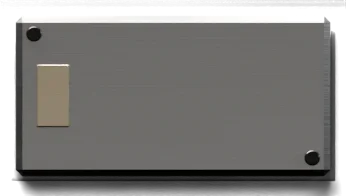
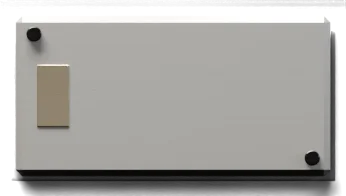
Fix the Round 2 review findings: plate contrast, sprite swap, touch states
An independent review of 2065f66 found these in the Round 2 integration.

- Stage plates: re-rendered in Blender with their own lighter, partly
  diffuse brushed stainless. The label ink goes from 3.1-3.8:1 to
  6.6-7.2:1 on every plate. The chain base and the five pressed-plate
  sprites are new; the carriage is unchanged.
- The selected stage label stays light below 1181px, where it sits on
  the dark rail rather than a plate.
- Sprites: all lazy. A stage's sprite is fetched when the stage is
  chosen and swapped in once decoded, so nothing blinks on a first
  visit. The off-screen breakpoint is never fetched.
- Keys: a touch-screen sticky hover no longer lifts or whitens a key. A
  clicked key stays pressed while it travels. The current key keeps its
  ears on the pins. The one-row gap is 29px, so the pin pitch is exact.
  Phone numbers clear the bevel, and the label is 13px at 340px and
  below. Tiers tile at fractional widths, and a focused key stays
  ButtonText in forced colours.
- Footer headings raised to #d9c6a0. The 701-780px panels get room.
- The reduced-motion guard on the inspection light is restored. The dead
  --active write is removed and the caption apostrophe is fixed.
- Provenance: per-asset samples and qualities, pixel-identical
  re-renders, the separate winget MSI install recorded, the seal's own
  studio, the retained V5 renders.

diff --git a/pf-foundry-system.css b/pf-foundry-system.css
@@ -908,7 +908,7 @@ body:is(.pf-ledger-page,.pf-room-about,.pf-room-support,.pf-room-standard,.pf-ro
    foundry-connections.css. Each coupler is rendered for its own orientation and never rotated in CSS, so the
    studio light stays upper left. ── */
 :root .pf-route-chain li{margin:0}
-:root .pf-route-chain ol{gap:30px}
+:root .pf-route-chain ol{gap:29px}
 :root .pf-route-chain a{height:64px;min-height:0;padding:0 30px;gap:9px;border-style:solid;border-width:0;border-radius:0;
  border-image:url(/assets/round2/key-rest.webp) 0 64 fill/0 32px/0 stretch;background:none;box-shadow:none;
  color:#dfe5e7;font-size:14px;font-weight:600;letter-spacing:.06em;white-space:nowrap;text-shadow:0 -1px 0 rgba(0,0,0,.9),0 1px 0 rgba(255,255,255,.08);transition:transform .08s ease-out,filter .08s}
@@ -916,21 +916,24 @@ body:is(.pf-ledger-page,.pf-room-about,.pf-room-support,.pf-room-standard,.pf-ro
 /* Hover: a soft reflected band crosses the recessed face. No glow, no lift. */
 :root .pf-route-chain a::before{content:"";position:absolute;left:24px;right:24px;top:15px;bottom:15px;width:auto;height:auto;transform:none;border:0;border-radius:0;box-shadow:none;
  background:linear-gradient(100deg,transparent 30%,rgba(255,255,255,.1) 46%,rgba(255,255,255,.16) 50%,rgba(255,255,255,.1) 54%,transparent 70%) -160px 0/220% 100% no-repeat;opacity:0;transition:background-position .5s ease-out,opacity .2s;pointer-events:none}
-@media (hover:hover){:root .pf-route-chain a:hover::before{opacity:1;background-position:100% 0}:root .pf-route-chain a:hover{transform:none;color:#f3f6f7}}
+/* A sticky :hover on a touch screen must not lift or whiten a key (the shipped hover rule does both). */
+:root .pf-route-chain a:hover{transform:none;color:#dfe5e7}
+@media (hover:hover){:root .pf-route-chain a:hover::before{opacity:1;background-position:100% 0}:root .pf-route-chain a:hover{color:#f3f6f7}}
 :root .pf-route-chain a:focus-visible{transform:none;outline:3px solid #ffd58a;outline-offset:3px;color:#f3f6f7}
-:root .pf-route-chain a:active{transform:translateY(2px);filter:brightness(.9) contrast(1.05)}
+:root .pf-route-chain a:active,:root .pf-route-chain a[data-engaged=true]{transform:translateY(2px);filter:brightness(.9) contrast(1.05)}
 :root .pf-route-chain .pf-chain-station{color:#b9a27a;font-size:11px;font-weight:500}
 :root .pf-route-chain a[aria-current=page]{border-image-source:url(/assets/round2/key-current.webp);background:none;box-shadow:none;color:#11191e;
- text-shadow:0 1px 0 rgba(255,255,255,.38);transform:translateY(1px)}
+ text-shadow:0 1px 0 rgba(255,255,255,.38)}
 :root .pf-route-chain a[aria-current=page] .pf-chain-station{color:#5a4421}
 :root .pf-route-chain a[aria-current=page]:hover{color:#0b1013}
-/* Horizontal coupler: a forged link pinned through neighbouring ears, pin centres 46 px apart (x 12 and 58 in the art).
+/* Horizontal coupler: a forged link pinned through neighbouring ears, pin centres 46 px apart (x 12 and 58 in the art);
+   each ear bore sits 8.5 px in from its key's end, so the 29 px gap above lands both pins in the bores.
    The li:nth-child(n) selector outranks the shipped per-key coupler transforms in foundry-connections.css. */
 :root .pf-route-chain li:nth-child(n) .pf-route-coupler{left:calc(100% - 20.5px);right:auto;top:16px;width:70px;height:32px;transform:none;filter:none;background:url(/assets/round2/coupler.webp) 0 0/100% 100% no-repeat}
 :root .pf-route-coupler i{display:none}
 /* One row down to 1240 px: the type tightens and the gap closes to 24 px, with the coupler scaled to match
    (pin pitch 24 + 2 x 8.5 = 41 px, 0.891 of the art). */
-@media (min-width:1240px) and (max-width:1359px){
+@media (min-width:1240px) and (max-width:1359.98px){
  :root .pf-route-chain ol{gap:24px}
  :root .pf-route-chain a{padding:0 22px;font-size:13px;letter-spacing:.02em}
  :root .pf-route-chain li:nth-child(n) .pf-route-coupler{left:calc(100% - 19.2px);top:17.74px;width:62.4px;height:28.5px}
@@ -939,14 +942,14 @@ body:is(.pf-ledger-page,.pf-room-about,.pf-room-support,.pf-room-standard,.pf-ro
    the key's end and 28 px down. With a 20 px column gap the horizontal coupler scales to 53 x 24.3 and its pins land in
    the bores. With a 24 px row gap the bores of stacked keys are 80 px apart, the pin pitch of the rendered drop link
    (coupler-v.webp: 32 x 100, pins at y 10 and 90). */
-@media (max-width:1239px){
+@media (max-width:1239.98px){
  :root .pf-route-chain ol{gap:24px 20px}
  :root .pf-route-chain a{height:56px;border-image-width:0 28px;padding:0 22px}
  :root .pf-route-chain li:nth-child(n){grid-column:auto;grid-row:auto}
  :root .pf-route-chain li:nth-child(n) .pf-route-coupler{left:calc(100% - 16.5px);right:auto;top:15.9px;width:53px;height:24.3px}
 }
 /* Tablets: three columns, 1 2 3 / 6 5 4. The chain drops at the right after 03 and runs back to the left. */
-@media (min-width:701px) and (max-width:1239px){
+@media (min-width:701px) and (max-width:1239.98px){
  :root .pf-route-chain ol{grid-template-columns:repeat(3,minmax(0,1fr))}
  :root .pf-route-chain li:nth-child(4){grid-column:3;grid-row:2}:root .pf-route-chain li:nth-child(5){grid-column:2;grid-row:2}:root .pf-route-chain li:nth-child(6){grid-column:1;grid-row:2}
  :root .pf-route-chain li:nth-child(3) .pf-route-coupler{left:calc(100% - 23.44px);top:18px;width:32px;height:100px;background-image:url(/assets/round2/coupler-v.webp)}
@@ -954,23 +957,24 @@ body:is(.pf-ledger-page,.pf-room-about,.pf-room-support,.pf-room-standard,.pf-ro
 }
 /* Phones: two columns, 1 2 / 4 3 / 5 6. The chain drops at the right after 02 and at the left after 04. The stage number
    sits above the label so the long labels stay on one line. */
-@media (max-width:700px){
+@media (max-width:700.98px){
  :root .pf-route-chain ol{grid-template-columns:repeat(2,minmax(0,1fr))}
  :root .pf-route-chain li:nth-child(3){grid-column:2;grid-row:2}:root .pf-route-chain li:nth-child(4){grid-column:1;grid-row:2}
  :root .pf-route-chain li:nth-child(5){grid-column:1;grid-row:3}:root .pf-route-chain li:nth-child(6){grid-column:2;grid-row:3}
- :root .pf-route-chain a{flex-direction:column;gap:3px;line-height:16px}
+ :root .pf-route-chain a{flex-direction:column;gap:3px;line-height:16px;padding-top:4px}
  :root .pf-route-chain .pf-chain-station{line-height:13px;letter-spacing:.1em}
  :root .pf-route-chain li:nth-child(2) .pf-route-coupler,:root .pf-route-chain li:nth-child(4) .pf-route-coupler{top:18px;width:32px;height:100px;background-image:url(/assets/round2/coupler-v.webp)}
  :root .pf-route-chain li:nth-child(2) .pf-route-coupler{left:calc(100% - 23.44px)}
  :root .pf-route-chain li:nth-child(4) .pf-route-coupler{left:-8.56px}
  :root .pf-route-chain li:nth-child(3) .pf-route-coupler{left:auto;right:calc(100% - 16.5px)}
 }
-@media (max-width:360px){:root .pf-route-chain a{padding:0 18px;letter-spacing:0}}
+@media (max-width:360px){:root .pf-route-chain a{padding:4px 18px 0;letter-spacing:0}}
+@media (max-width:340px){:root .pf-route-chain a{font-size:13px}}
 @media (prefers-reduced-motion:reduce){:root .pf-route-chain a,:root .pf-route-chain a::before{transition:none}}
 /* Forced colours: plain system buttons in the palette (label and border in ButtonText), the current key with a 3 px
    Highlight border, and no rendered art. */
 @media (forced-colors:active){
- :root .pf-route-chain a,:root .pf-route-chain a:hover,:root .pf-route-chain a[aria-current=page]{border-image:none;border:2px solid ButtonText;background:ButtonFace;color:ButtonText;text-shadow:none;filter:none}
+ :root .pf-route-chain a,:root .pf-route-chain a:hover,:root .pf-route-chain a:focus-visible,:root .pf-route-chain a[aria-current=page]{border-image:none;border:2px solid ButtonText;background:ButtonFace;color:ButtonText;text-shadow:none;filter:none}
  :root .pf-route-chain a[aria-current=page]{border:3px solid Highlight}
  :root .pf-route-chain .pf-chain-station,:root .pf-route-chain a[aria-current=page] .pf-chain-station{color:ButtonText}
  :root .pf-route-chain a::before{display:none}
@@ -998,7 +1002,7 @@ body:is(.pf-ledger-page,.pf-room-about,.pf-room-support,.pf-room-standard,.pf-ro
 :root .site-footer::after{content:"";position:absolute;left:0;right:0;bottom:0;height:10px;background:linear-gradient(180deg,transparent,rgba(0,0,0,.6));pointer-events:none}
 :root .site-footer .footer-grid{align-items:start}
 :root .site-footer .footer-grid>nav{position:relative;padding:26px 30px 22px;border-style:solid;border-width:0;border-image:url(/assets/round2/footer-panel.webp) 56 fill/28px/0 stretch}
-:root .site-footer .footer-grid h2{display:flex;align-items:center;gap:10px;color:#c2ab80;letter-spacing:.2em;margin:0 0 10px;text-shadow:0 -1px 0 rgba(0,0,0,.9)}
+:root .site-footer .footer-grid h2{display:flex;align-items:center;gap:10px;color:#d9c6a0;letter-spacing:.2em;margin:0 0 10px;text-shadow:0 -1px 0 rgba(0,0,0,.9)}
 :root .site-footer .footer-grid h2::after{content:"";flex:1;height:1px;background:linear-gradient(90deg,rgba(0,0,0,.9),rgba(0,0,0,.2));box-shadow:0 1px 0 rgba(255,255,255,.07)}
 /* Engraved links: a cut with a shadowed top wall and a light-catching lower lip, filled with a satin inlay. */
 :root .site-footer .footer-grid a{color:#bdc7cc;font-size:14px;font-weight:500;letter-spacing:.02em;text-decoration:none;text-shadow:0 -1px 0 rgba(0,0,0,.95),0 1px 0 rgba(255,255,255,.13);transition:color .15s}
@@ -1007,6 +1011,7 @@ body:is(.pf-ledger-page,.pf-room-about,.pf-room-support,.pf-room-standard,.pf-ro
 :root .site-footer .footer-brand-lockup img{padding:5px;background:linear-gradient(160deg,#41484d,#202529);box-shadow:inset 0 1px 0 rgba(255,255,255,.18),inset 0 -1px 0 rgba(0,0,0,.6),0 1px 2px rgba(0,0,0,.7)}
 :root .site-footer .footer-bottom{border-top:1px solid #050607;box-shadow:inset 0 1px 0 rgba(255,255,255,.05)}
 @media (max-width:1100px){:root .site-footer .footer-grid>nav{padding:22px 22px 16px}}
+@media (min-width:701px) and (max-width:780px){:root .site-footer .footer-grid>nav{padding:20px 14px 14px}}
 @media (prefers-reduced-motion:reduce){:root .site-footer .footer-grid a{transition:none}}
 /* Forced colours: the material base rule above outranks a plain reset, so this one is !important. */
 @media (forced-colors:active){

diff --git a/index.html b/index.html
@@ -52,9 +52,9 @@
   </div>
   <div class="pfa-machine">
    <picture class="pfa-assembly" aria-hidden="true"><source media="(min-width: 1000px)" srcset="/assets/round2/chain-desktop-1400.webp 1400w, /assets/round2/chain-desktop-2800.webp 2800w" sizes="(min-width: 1181px) 88vw, 93vw" width="1400" height="431"/><img src="/assets/round2/chain-mobile-320.webp" alt="" width="160" height="635" loading="eager"/></picture>
-   <span class="r2-plates" aria-hidden="true"><img src="/assets/round2/plate-d-p0.webp" alt="" decoding="async"/><img src="/assets/round2/plate-d-p1.webp" alt="" hidden loading="lazy" decoding="async"/><img src="/assets/round2/plate-d-p2.webp" alt="" hidden loading="lazy" decoding="async"/><img src="/assets/round2/plate-d-p3.webp" alt="" hidden loading="lazy" decoding="async"/><img src="/assets/round2/plate-d-p4.webp" alt="" hidden loading="lazy" decoding="async"/></span>
-   <span class="r2-car" aria-hidden="true"><img src="/assets/round2/carriage-d-s0.webp" alt="" decoding="async"/><img src="/assets/round2/carriage-d-s1.webp" alt="" hidden loading="lazy" decoding="async"/><img src="/assets/round2/carriage-d-s2.webp" alt="" hidden loading="lazy" decoding="async"/><img src="/assets/round2/carriage-d-s3.webp" alt="" hidden loading="lazy" decoding="async"/><img src="/assets/round2/carriage-d-s4.webp" alt="" hidden loading="lazy" decoding="async"/></span>
-   <span class="r2-car-m" aria-hidden="true"><img src="/assets/round2/carriage-m-s0.webp" alt="" decoding="async"/><img src="/assets/round2/carriage-m-s1.webp" alt="" hidden loading="lazy" decoding="async"/><img src="/assets/round2/carriage-m-s2.webp" alt="" hidden loading="lazy" decoding="async"/><img src="/assets/round2/carriage-m-s3.webp" alt="" hidden loading="lazy" decoding="async"/><img src="/assets/round2/carriage-m-s4.webp" alt="" hidden loading="lazy" decoding="async"/></span>
+   <span class="r2-plates" aria-hidden="true"><img src="/assets/round2/plate-d-p0.webp" alt="" loading="lazy" decoding="async"/><img src="/assets/round2/plate-d-p1.webp" alt="" hidden loading="lazy" decoding="async"/><img src="/assets/round2/plate-d-p2.webp" alt="" hidden loading="lazy" decoding="async"/><img src="/assets/round2/plate-d-p3.webp" alt="" hidden loading="lazy" decoding="async"/><img src="/assets/round2/plate-d-p4.webp" alt="" hidden loading="lazy" decoding="async"/></span>
+   <span class="r2-car" aria-hidden="true"><img src="/assets/round2/carriage-d-s0.webp" alt="" loading="lazy" decoding="async"/><img src="/assets/round2/carriage-d-s1.webp" alt="" hidden loading="lazy" decoding="async"/><img src="/assets/round2/carriage-d-s2.webp" alt="" hidden loading="lazy" decoding="async"/><img src="/assets/round2/carriage-d-s3.webp" alt="" hidden loading="lazy" decoding="async"/><img src="/assets/round2/carriage-d-s4.webp" alt="" hidden loading="lazy" decoding="async"/></span>
+   <span class="r2-car-m" aria-hidden="true"><img src="/assets/round2/carriage-m-s0.webp" alt="" loading="lazy" decoding="async"/><img src="/assets/round2/carriage-m-s1.webp" alt="" hidden loading="lazy" decoding="async"/><img src="/assets/round2/carriage-m-s2.webp" alt="" hidden loading="lazy" decoding="async"/><img src="/assets/round2/carriage-m-s3.webp" alt="" hidden loading="lazy" decoding="async"/><img src="/assets/round2/carriage-m-s4.webp" alt="" hidden loading="lazy" decoding="async"/></span>
    <ol class="pfa-rail">
     <li data-stage="0"><span class="pfa-num" aria-hidden="true">01</span><h3><button class="stage-btn" disabled type="button" aria-pressed="true" aria-controls="pfa-record">Source</button></h3><p>Identify what was built.</p></li>
     <li data-stage="1"><span class="pfa-num" aria-hidden="true">02</span><h3><button class="stage-btn" disabled type="button" aria-pressed="false" aria-controls="pfa-record">Build</button></h3><p>Record how it was made.</p></li>
@@ -76,7 +76,7 @@
    <p data-detail-text>A specific source version gives a build an identifiable starting point.</p>
   </div>
   <p class="pfa-run-status" data-run-status>Select a stage to inspect its record. This illustration is not a live verification.</p>
-  <p class="pfa-caption">How it is held: the chain hangs between two clevis anchors pinned to the housing's end blocks, which take the load. The inspection carriage runs in the housing’s guide rail; its finger points at the selected link and never carries the chain. An illustration of the record, not a live verification.</p>
+  <p class="pfa-caption">How it is held: the chain hangs between two clevis anchors pinned to the housing’s end blocks, which take the load. The inspection carriage runs in the housing’s guide rail; its finger points at the selected link and never carries the chain. An illustration of the record, not a live verification.</p>
  </div>
 
  <a class="text-link" href="/proof-standard/">Read the proof standard ↗</a>

diff --git a/pf-home.js b/pf-home.js
@@ -627,23 +627,30 @@ document.addEventListener('error', (event) => { if (decorative(event.target)) ar
 // Failures that happened before this module ran.
 for (const img of document.images) if (decorative(img) && img.complete && img.currentSrc && img.naturalWidth === 0) artFailed(img);
 
-// Rendered carriage reach changes only after travel; the explanation and plate update immediately.
+// Rendered carriage reach changes only after travel; the explanation and plate update immediately. A sprite is
+// fetched when its stage is chosen and swapped in once decoded, so a part never blinks out on a first visit. Only the
+// layout on screen fetches; the other breakpoint's sprites stay lazy until it is shown.
 function initChainSprites(machine) {
-  const cars = [...machine.querySelectorAll('.r2-car, .r2-car-m')];
-  const plates = [...machine.querySelectorAll('.r2-plates img')];
-  let shown = -1, timer = 0;
-  const showCar = (index) => {
-    shown = index;
-    cars.forEach(car => car.querySelectorAll('img').forEach((image, i) => { image.hidden = i !== index; }));
+  const groups = [...machine.querySelectorAll('.r2-plates, .r2-car, .r2-car-m')].map(group => [...group.querySelectorAll('img')]);
+  const plates = groups.filter(images => images[0].parentElement.classList.contains('r2-plates'));
+  const cars = groups.filter(images => !plates.includes(images));
+  let active = -1, carShown = -1, timer = 0;
+  const onScreen = (images) => getComputedStyle(images[0].parentElement).display !== 'none';
+  const show = (images, index) => {
+    const ready = onScreen(images) ? (images[index].loading = 'eager', images[index].decode().catch(() => {})) : Promise.resolve();
+    return ready.then(() => { if (index === active) images.forEach((image, i) => { image.hidden = i !== index; }); });
   };
   const apply = () => {
     const index = Number(machine.dataset.active || 0);
-    plates.forEach((image, i) => { image.hidden = i !== index; });
+    if (index === active) return;
+    active = index;
+    plates.forEach(images => show(images, index));
+    cars.forEach(images => { if (onScreen(images)) images[index].loading = 'eager'; });
     clearTimeout(timer);
-    if (machine.dataset.motion !== 'on' || shown < 0) showCar(index);
-    else timer = setTimeout(() => showCar(index), 640);
+    const settle = () => { carShown = index; cars.forEach(images => show(images, index)); };
+    if (machine.dataset.motion !== 'on' || carShown < 0) settle(); else timer = setTimeout(settle, 640);
   };
-  new MutationObserver(apply).observe(machine, { attributes: true, attributeFilter: ['data-active', 'data-motion'] });
+  new MutationObserver(apply).observe(machine, { attributes: true, attributeFilter: ['data-active'] });
   apply();
 }
 
@@ -695,7 +702,6 @@ function initProofChain() {
     active = Math.max(0, Math.min(stages.length - 1, index));
     if (manual && state === 'running') { clear(); state = 'paused'; }
     machine.dataset.active = String(active);
-    machine.style.setProperty('--active', active);
     stages.forEach((stage, i) => {
       stage.dataset.engaged = String(i === active);
       buttons[i].setAttribute('aria-pressed', String(i === active));

diff --git a/pf-home-ledger.css b/pf-home-ledger.css
@@ -775,8 +775,9 @@ html[data-motion=off] .pf-lm{display:none}
  .pfa[data-active="1"] .r2-car{--travel:14.9286cqw}.pfa[data-active="2"] .r2-car{--travel:29.9286cqw}
  .pfa[data-active="3"] .r2-car{--travel:44.857cqw}.pfa[data-active="4"] .r2-car{--travel:59.786cqw}
  .pfa[data-motion=on] .r2-car{transition:transform .62s cubic-bezier(.5,0,.15,1.04)}
- .pfa-rail li[data-engaged=true] h3{color:#0e1418}
 }
+/* From 1181 px the labels sit on the rendered plates; below that they sit on the dark rail and keep their light ink. */
+@media (min-width:1181px){.pfa-rail li[data-engaged=true] h3{color:#0e1418}}
 @media (max-width:999px){
  .r2-plates,.r2-car{display:none}
  .r2-car-m{display:block;left:calc(92px * var(--s));top:calc(76.3px * var(--s));width:calc(60px * var(--s));height:calc(68px * var(--s));transform:translateY(var(--travel,0px))}
@@ -792,6 +793,7 @@ html[data-motion=off] .pf-lm{display:none}
 }
 /* The inspection light is a desktop effect; on the vertical layout the champagne edge marks the selected plate. */
 @media (max-width:999px){.pfa-rail li::after{display:none}}
+@media (prefers-reduced-motion:reduce){.pfa-rail li::after{transition:none!important}}
 /* Forced colours: no rendered hardware, and the stage list returns to the full width the round 2 mobile offset took. */
 @media (forced-colors:active){
  .pfa-assembly,.r2-car,.r2-car-m,.r2-plates,.pf-emblem.r2-seal::before,.pfa-rail li::after,.pfa-rail li::before,.pfa-rail::before{display:none}

diff --git a/scripts/render-round2/chain_scene.py b/scripts/render-round2/chain_scene.py
@@ -150,6 +150,9 @@ M['bore'] = mat_varied('structural-back-wall', (0.034, 0.033, 0.032), 0.6, 0.58,
 M['rail'] = mat_simple('blackened-rail', (0.03, 0.03, 0.031), 0.9, 0.34, brushed=0.05)
 M['ground'] = mat_simple('ground-face', (0.5, 0.5, 0.5), 1.0, 0.2, brushed=0.12)
 M['stainless'] = mat_simple('brushed-stainless', (0.52, 0.52, 0.51), 1.0, 0.24, aniso=0.6, brushed=0.3)
+# Stage plates carry engraved labels, so their face is a lighter, partly diffuse brushed stainless: under the black
+# studio world a fully metallic face renders too dark for the labels to reach 4.5:1.
+M['plate'] = mat_simple('plate-stainless', (0.52, 0.52, 0.51), 0.78, 0.3, aniso=0.55, brushed=0.3)
 M['pin'] = mat_simple('turned-pin', (0.42, 0.42, 0.41), 1.0, 0.26, brushed=0.1)
 M['screw'] = mat_simple('blackened-screw', (0.05, 0.05, 0.052), 1.0, 0.3)
 M['brass'] = mat_simple('brass-witness', (0.82, 0.6, 0.33), 1.0, 0.28)
@@ -309,7 +312,7 @@ def build_desktop():
     # window with a dark steel flag; RELEASE carries an inset brass witness plug.
     for i, x in enumerate(PLX):
         yc = (PLATE_Y0 + PLATE_Y1) / 2; top = 56.0
-        plate = box(f'plate-{i}', x, PLATE_Y0, 46.5, x + PLATE_W, PLATE_Y1, top, 'stainless', bevel=3.2, seg=1)
+        plate = box(f'plate-{i}', x, PLATE_Y0, 46.5, x + PLATE_W, PLATE_Y1, top, 'plate', bevel=3.2, seg=1)
         # Shallow window with the flag nearly flush, so an unselected plate reads finished rather than slotted.
         boolean(plate, box(f'window-{i}', x + 9, yc - 17, top - 1.5, x + 28, yc + 17, top + 5, 'stainless', bevel=0))
         parts = [plate]

diff --git a/scripts/render-round2/ui_parts.py b/scripts/render-round2/ui_parts.py
@@ -49,7 +49,7 @@ elif part == 'coupler':
     for x in (12, 58): cyl('ear-pin', x, 16, -6, 6.5, 3.2, 'pin', bevel=0.6); cyl('pin-head', x, 16, 5.5, 7.5, 4.6, 'pin', bevel=0.8)
     finish(W, H, transparent=True, k=0.25)
 elif part == 'coupler-v':
-    # Drop link for the snaking key layouts (1100 px and below): two forged links hang between the side ears of two
+    # Drop link for the snaking key layouts (below 1240 px): two forged links hang between the side ears of two
     # stacked keys. Rendered upright under the same studio so it is never rotated in CSS. Drawn at its CSS size
     # (56 px keys, 24 px row gap): ear bores 80 px apart, at y 10 and 90 of a 32 x 100 canvas. The wire and pins match
     # the horizontal coupler as it is drawn at that layout (0.758 of its art).

diff --git a/scripts/render-round2/chain_mobile.py b/scripts/render-round2/chain_mobile.py
@@ -1,5 +1,5 @@
 """Proof chain, mobile (160 x 635 px vertical frame), Cycles. Reuses the desktop scene's materials and helpers.
-blender -b --factory-startup -P chain_mobile.py -- --mode base|sample|carriage --stage N --scale 2 --samples N --out x.png
+blender -b --factory-startup -P chain_mobile.py -- --scene mobile --mode base|sample|carriage --stage N --scale 2 --samples N --out x.png
 The chain hangs vertically in tension (no sag). Parts are the desktop parts scaled by the pitch ratio K.
 A vertical V-way runs beside the chain; the carriage pointer reaches left to each checkpoint link with a fixed clearance.
 """

diff --git a/MATERIAL_PROVENANCE.md b/MATERIAL_PROVENANCE.md
@@ -27,37 +27,42 @@ One light source, upper left. Rolled mill steel carries the load (Home is shaded
 
 ## Round 2 rendered hardware
 
-The Round 2 hardware in `assets/round2/` is rendered, not photographed or generated. Each piece is a procedural Blender scene. It was rendered with Cycles under one shared studio: a warm softbox upper left, a cool rim strip at right, a dim top bounce and a near-black world. There are no downloaded textures, HDRIs, models, add-ons or stock images. The owner's lifting-chain photo was used only as a visual reference for the material. The scene scripts are committed in `scripts/render-round2/`.
+The Round 2 hardware in `assets/round2/` is rendered, not photographed or generated. Each piece is a procedural Blender scene. It was rendered with Cycles under one studio layout: a warm softbox upper left, a cool rim strip at right, a dim top bounce and a near-black world. The seal uses its own copy of that layout: a smaller key, an added contact-shadow key, a weaker reflection card and -1.8 EV exposure. There are no downloaded textures, HDRIs, models, add-ons or stock images. The owner's lifting-chain photo was used only as a visual reference for the material. The scene scripts are committed in `scripts/render-round2/`.
 
 - **Blender:** 5.2.3 LTS (build `e13b728c6880`), the portable zip from `https://download.blender.org/release/Blender5.2/blender-5.2.3-windows-x64.zip`.
[1 lines of base64/hex data omitted]
   - `blender.exe` carries a valid Authenticode signature from the Blender Foundation.
-  - It was run headless with `--factory-startup`. No installer was run, and no registry or PATH change was made.
-- **Render settings:** Cycles CPU, OpenImageDenoise, AgX Medium High Contrast, 16-bit PNG masters at 2x, 128 to 160 samples.
-- **Encoding:** WebP with ffmpeg libwebp. The chain bases use quality 80 to 82; sprites and UI parts use 85.
-- **Reproduction is close, not byte-exact.** Fresh renders of the key, coupler and panel parts differ from the shipped masters by a mean of 0.15 to 1.2 per channel out of 255. Screw-socket angles come from a seeded random, and the denoiser is not bit-exact.
[1 lines of base64/hex data omitted]
+  - The portable zip needs no installer. Separately, Blender 5.2.3 was also installed system-wide on this workstation on 2026-11-02 at 16:32. That install was a winget MSI, which added an uninstall entry, `C:\Program Files\Blender Foundation\` and a `.blend` association, with no PATH change. It was not used for these renders.
+- **Render settings:** Cycles CPU, OpenImageDenoise, AgX Medium High Contrast, 16-bit PNG masters at 2x. Samples per asset are in the table: 160 for the chain bases, 128 for the sprites, seal, drop link and rail, and 64 (the script default) for the key, coupler and panel parts.
+- **Encoding:** WebP with ffmpeg libwebp, with the quality given per row. The 1x copies are Lanczos-downscaled from the 2x master. Encoding the hashed masters reproduces the shipped files.
+- **Reproduction is exact.** Re-rendering `key-rest` and `coupler` from the committed script at their own 64 samples gives pixel-identical images: a difference of 0. Screw-socket angles come from a seeded random, so they repeat. The PNG files differ only in metadata.
 
 | Asset | Pixels | Bytes | SHA-256 | Scene and mode |
 |---|---|---|---|---|
[3 lines of base64/hex data omitted]
-| `carriage-d-s0.webp` … `-s4.webp` | 416 × 220 | 6,564 / 8,008 / 10,868 / 12,442 / 14,918 | `3d50258707f7d0be…`, `ce9978c24c48a8c5…`, `5dc9722f47c22f9c…`, `45267add5b439839…`, `38f4389ca1881fdb…` | `chain_scene.py --mode carriage --stage 0…4`, transparent, 128 samples |
-| `plate-d-p0.webp` … `-p4.webp` | 346–347 × 196 | 5,854 / 6,442 / 6,602 / 7,132 / 6,984 | `36566e4e4a02f08f…`, `9baa8b3b4c169383…`, `fbf5aeb193910146…`, `55b6fdfae61834d2…`, `cb93a4c7614ce552…` | `chain_scene.py --mode plate --stage 0…4` (that stage's plate pressed), transparent, 128 samples |
-| `carriage-m-s0.webp` … `-s4.webp` | 120 × 135–136 | 4,472 / 3,104 / 2,672 / 2,456 / 2,474 | `02895568135d64d3…`, `b1b77125dc82b823…`, `4c52ca352056a60b…`, `f57f2935d28e5160…`, `1bcbdb605810d440…` | `chain_mobile.py --mode carriage --stage 0…4`, transparent, 128 samples |
[10 lines of base64/hex data omitted]
+| `carriage-d-s0.webp` … `-s4.webp` | 416 × 220 | 6,564 / 8,008 / 10,868 / 12,442 / 14,918 | `3d50258707f7d0be…`, `ce9978c24c48a8c5…`, `5dc9722f47c22f9c…`, `45267add5b439839…`, `38f4389ca1881fdb…` | `chain_scene.py --mode carriage --stage 0…4`, transparent, 128 samples, quality 85 |
+| `plate-d-p0.webp` … `-p4.webp` | 346–347 × 196 | 5,528 / 6,060 / 6,414 / 6,844 / 6,824 | `f8c7689971a44fa1…`, `3d40ea781ab4a549…`, `0afcda7644c6a5bb…`, `04378cd7b7f5a0fc…`, `5cd1d6d5e567c2da…` | `chain_scene.py --mode plate --stage 0…4` (that stage's plate pressed), transparent, 128 samples, quality 85 |
+| `carriage-m-s0.webp` … `-s4.webp` | 120 × 135–136 | 4,472 / 3,104 / 2,672 / 2,456 / 2,474 | `02895568135d64d3…`, `b1b77125dc82b823…`, `4c52ca352056a60b…`, `f57f2935d28e5160…`, `1bcbdb605810d440…` | `chain_mobile.py --scene mobile --mode carriage --stage 0…4`, transparent, 128 samples, quality 85 |
[9 lines of base64/hex data omitted]
 
+The stage plates use their own `plate-stainless` material, a lighter and partly diffuse brushed stainless. Factory's plates shared the fully metallic carriage stainless. Under the black studio world that rendered their faces at a luminance of about 103 to 118, and the engraved labels reached only 3.1 to 3.8:1. The re-rendered faces measure about 159 to 167, which puts the label ink at 6.6 to 7.2:1 on every plate. The chain base and the five pressed-plate sprites were re-rendered for this. The carriage sprites are unchanged.
+
 The footer rail replaces Factory's earlier 280 px tile, which never rendered: its CSS was invalid. It is the restrained bolted upper rail that ChatGPT recommended on CP-0183 for owner review. It is a 22 px blackened bar whose top edge tucks under the butt weld that joins the footer base to the chassis. Eight socket screws at 240 px pitch, symmetric about the page centre, fasten it into the base. It is rendered whole at 1920 px, so it has no tile seams.
 
-The chain base downloads only at its own breakpoint: desktop 1x or 2x, or mobile. The selected stage's sprites load with the page, and the others load lazily. Every Round 2 layer is `aria-hidden` and is not drawn in forced colours.
+The chain base downloads only at its own breakpoint: desktop 1x or 2x, or mobile. Every sprite is lazy. The selected stage's sprite for the layout on screen is fetched when the chain initialises, and another stage's sprite is fetched when that stage is chosen. Each is swapped in only once decoded. The other breakpoint's sprites are never fetched. Every Round 2 layer is `aria-hidden` and is not drawn in forced colours.
+
+The previous V5 chain renders (`assets/proof-chain/`) are no longer referenced by any page. They are kept on purpose, so a rollback to the earlier chain needs no asset restore.
 
 Command form, from the repository root:
 
@@ -69,5 +74,4 @@ ffmpeg -i <master.png> -c:v libwebp -quality 85 <asset.webp>
 
 The 16-bit masters are kept outside the published site with the review evidence. Their SHA-256 values are in `scripts/render-round2/MASTERS.sha256`.
 
-- The chain, mobile, seal, `key-current`, `coupler-v` and `footer-rail` masters were rendered after the last edit to their script.
-- The `key-rest`, `coupler` and `footer-panel` masters predate a later `ui_parts.py` edit, which changed `key-current`. Fresh renders from the committed script match them within the tolerance given above.
+Each master was rendered by the branch of the committed script that draws it, and that branch has not changed since the render. Later edits to `ui_parts.py` touched only other parts (`key-current`, `coupler-v`, `footer-rail`). The two pixel-identical re-renders above confirm it for `key-rest` and `coupler`.
